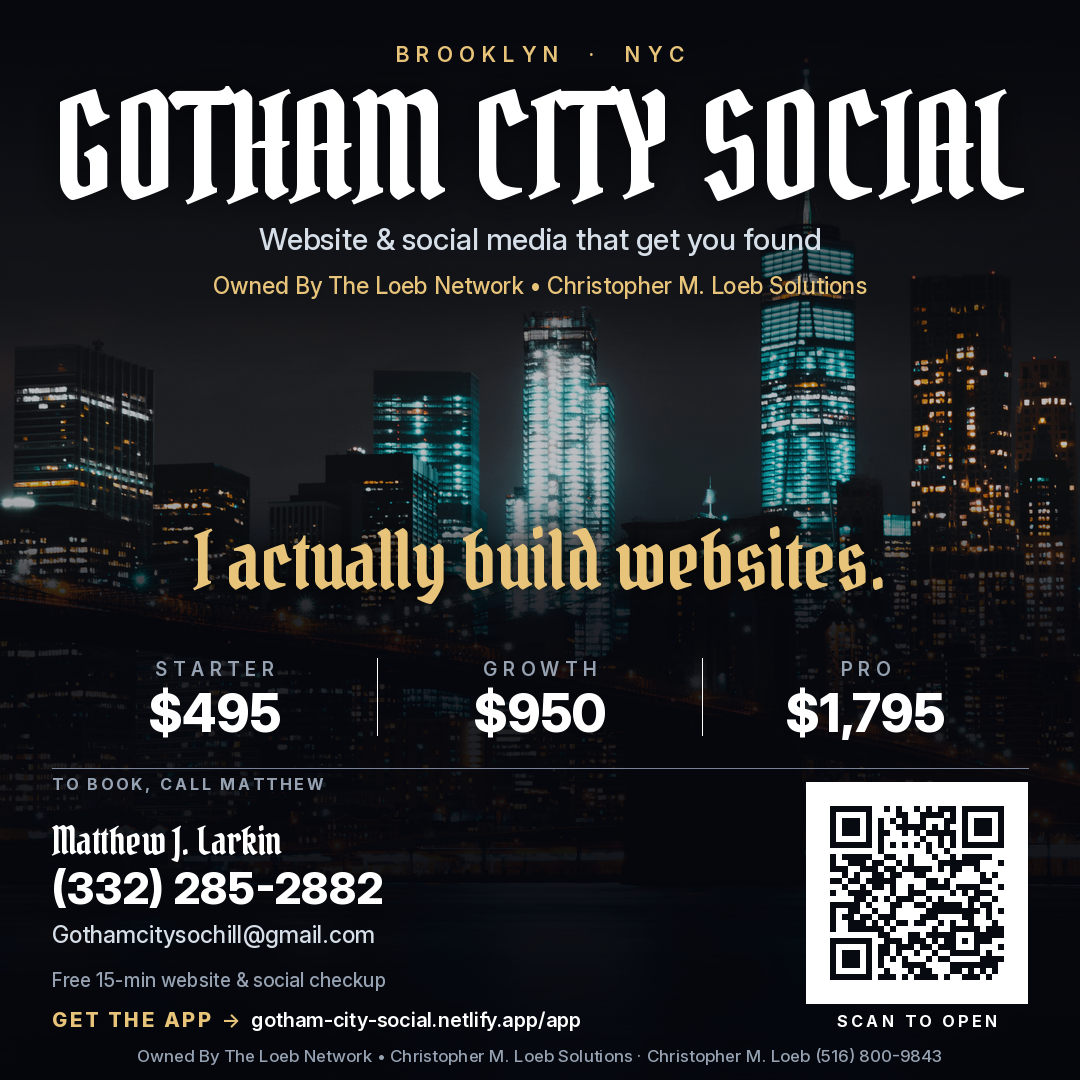
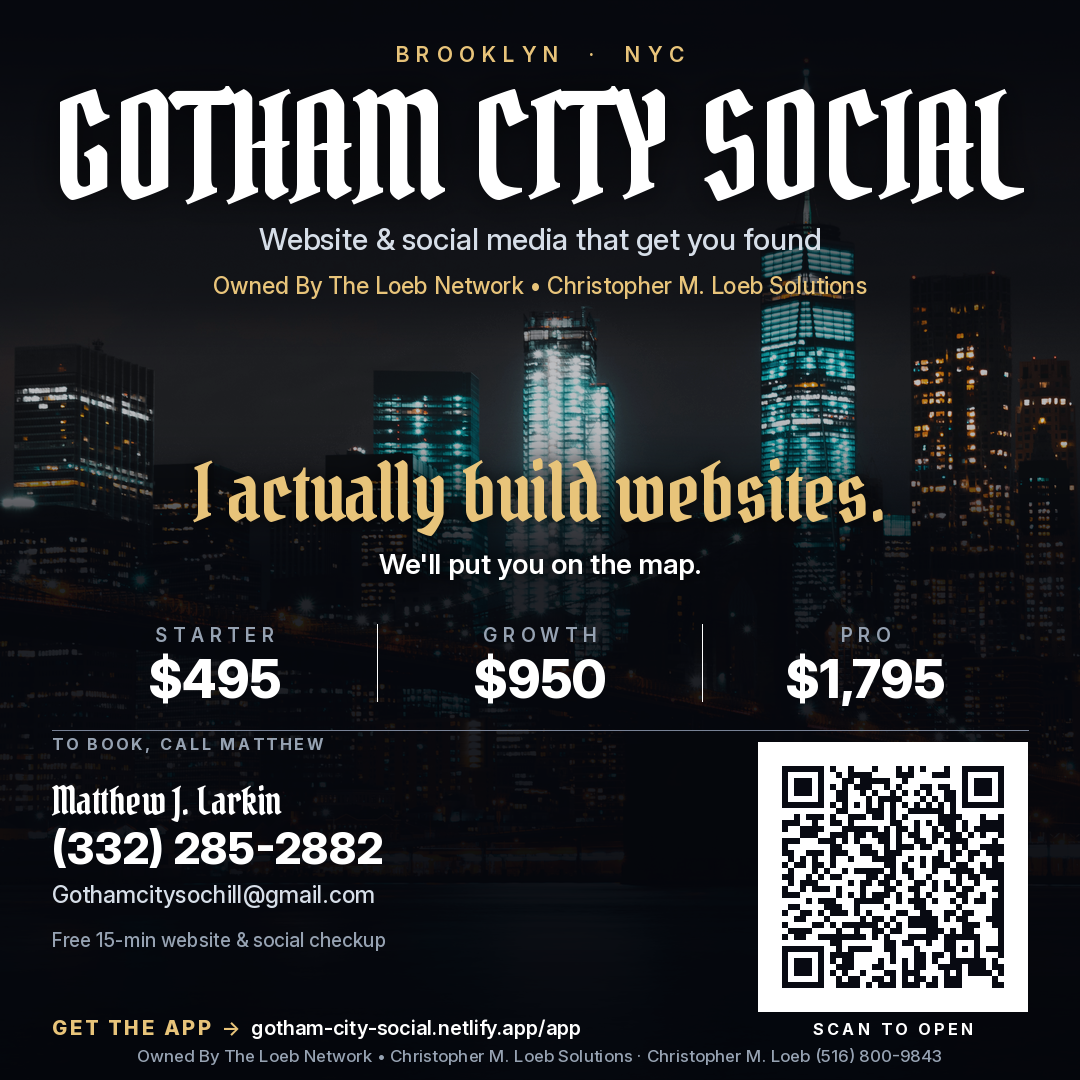
Brand storyline: 'We'll put you on the map.' tagline + Our Story section on homepage and app; Story nav link; refreshed app flyer art (H-level QR); sw cache v6

diff --git a/index.html b/index.html
@@ -9,7 +9,7 @@
       content="Gotham City Social · Owned By The Loeb Network • Christopher M. Loeb Solutions. Websites and social for Brooklyn and NYC. Christopher M. Loeb (516) 800-9843. Day-to-day booking contact: Matthew J. Larkin."
     />
     <meta name="theme-color" content="#07080c" />
-    <meta property="og:title" content="Gotham City Social" />
+    <meta property="og:title" content="Gotham City Social · We'll put you on the map." />
     <meta
       property="og:description"
       content="Owned By The Loeb Network • Christopher M. Loeb Solutions. Website & social media that get you found. Day-to-day booking contact: Matthew J. Larkin."
@@ -133,6 +133,17 @@
         .gcs-share-sheet { place-items: center; }
         .gcs-share-panel { border-radius: 12px; border-bottom: 1px solid var(--line); }
       }
+      /* Brand storyline: tagline + Our Story */
+      .map-tagline { color: var(--gold); font-weight: 600; letter-spacing: 0.02em; font-size: clamp(1.15rem, 2.2vw, 1.5rem); line-height: 1.3; margin-top: 0.6rem; }
+      .story-section { border-top: 1px solid var(--line); background: radial-gradient(60% 80% at 100% 0%, #e6c98a10, transparent 60%), var(--bg); }
+      .story-grid { display: grid; gap: clamp(1.75rem, 4vw, 3.5rem); }
+      .story-quote { margin: 0; padding: 0.2rem 0 0 1.1rem; border-left: 2px solid var(--gold); }
+      .story-quote p { font-family: var(--font-quote); color: var(--gold); font-weight: 400; font-size: clamp(1.9rem, 4.2vw, 3rem); line-height: 1.12; letter-spacing: 0.01em; overflow-wrap: break-word; }
+      .story-body p { color: var(--muted); max-width: 62ch; }
+      .story-body p + p { margin-top: 1rem; }
+      .story-body p:last-child { color: var(--ink); font-weight: 500; }
+      .story-section .section-intro { position: static; }
+      @media (min-width: 900px) { .story-grid { grid-template-columns: 0.95fr 1.05fr; align-items: start; } }
     </style>
   </head>
   <body>
@@ -150,6 +161,7 @@
         <nav class="desktop-nav" aria-label="Primary">
           <a href="#services">Services</a>
           <a href="#portfolio">Portfolio</a>
+          <a href="#story">Story</a>
           <a href="#packages">Packages</a>
           <a class="nav-pay" href="#packages">Pay</a>
           <a href="#about">About</a>
@@ -165,6 +177,7 @@
           <nav class="menu-panel" aria-label="Primary">
             <a href="#services">Services</a>
             <a href="#portfolio">Portfolio</a>
+            <a href="#story">Story</a>
             <a href="#packages">Packages</a>
             <a class="nav-pay" href="#packages">Pay</a>
             <a href="#about">About</a>
@@ -189,6 +202,7 @@
           <p class="kicker">Brooklyn · NYC</p>
           <h1 id="hero-title">Gotham City Social</h1>
           <p class="tagline">Website &amp; social media that get you found</p>
+          <p class="map-tagline">We'll put you on the map.</p>
           <p class="hero-quote">I actually build websites.</p>
           <div class="cta-row">
             <a class="btn btn-primary" href="#contact">Book a free 15-min checkup</a>
@@ -379,10 +393,31 @@
         </div>
       </section>
 
+      <section class="section story-section" id="story" aria-labelledby="story-title">
+        <div class="wrap">
+          <div class="section-intro">
+            <p class="index">03 — Our Story</p>
+            <h2 id="story-title">Our Story</h2>
+            <p class="map-tagline">We'll put you on the map.</p>
+          </div>
+          <div class="story-grid" style="margin-top:2rem">
+            <blockquote class="story-quote">
+              <p>Every legend in this city started as a storefront nobody knew. Let's make you famous.</p>
+            </blockquote>
+            <div class="story-body">
+              <p>Every block in Brooklyn has a spot locals swear by, like the barber with the line out the door, the pizza place that's been there forever, or the artist nobody's heard of yet. Great work deserves to be seen, and too many of those spots never show up when people search.</p>
+              <p>That's where Gotham City Social comes in. We build your website, set up your social pages, and get you on Google, so when someone searches for the best spot in the neighborhood, they find you.</p>
+              <p>No big agency prices, and no confusing tech talk. We're local people who actually build websites, and we'll have you live in days, not months.</p>
+              <p>Your city's waiting. Let's make you famous.</p>
+            </div>
+          </div>
+        </div>
+      </section>
+
       <section class="section band" id="packages" aria-labelledby="packages-title">
         <div class="wrap">
           <div class="section-intro">
-            <p class="index">03 — Packages</p>
+            <p class="index">04 — Packages</p>
             <h2 id="packages-title">Project packages</h2>
             <p class="lede">
               Three project sizes, one-time fees, not monthly. Starter is the website. Growth adds social profiles and local search. Pro is the full launch, with a handoff you can run. Pay online to start now, or book a free call first if you want to talk through scope.
@@ -462,7 +497,7 @@
       <section class="section" id="about" aria-labelledby="about-title">
         <div class="wrap about-grid">
           <div class="about-copy">
-            <p class="index">04 — About</p>
+            <p class="index">05 — About</p>
             <h2 id="about-title">For Brooklyn and New York</h2>
             <p>
               Gotham City Social builds websites and sets up social profiles for local businesses. The pages, the profiles, and a phone number that matches.
@@ -585,6 +620,7 @@
           <nav class="footer-links" aria-label="Footer">
             <a href="#services">Services</a>
             <a href="#portfolio">Portfolio</a>
+            <a href="#story">Our Story</a>
             <a href="#packages">Packages &amp; Pay</a>
             <a href="#about">About</a>
             <a href="#contact">Contact</a>

diff --git a/app/index.html b/app/index.html
@@ -59,6 +59,18 @@
         .app-art { order: -1; width: min(70%, 300px); }
       }
       @media (max-width: 520px) { .downloads { grid-template-columns: 1fr; } }
+      /* Brand storyline: tagline + Our Story */
+      .app-hero .map-tagline, .map-tagline { color: var(--gold); font-weight: 600; letter-spacing: 0.02em; font-size: clamp(1.15rem, 2.2vw, 1.5rem); line-height: 1.3; margin-top: 0.6rem; }
+      .story-section { border-top: 1px solid var(--line); background: radial-gradient(60% 80% at 100% 0%, #e6c98a10, transparent 60%), var(--bg); }
+      .story-grid { display: grid; gap: clamp(1.75rem, 4vw, 3.5rem); }
+      .story-quote { margin: 0; padding: 0.2rem 0 0 1.1rem; border-left: 2px solid var(--gold); }
+      .story-quote p { font-family: var(--font-quote); color: var(--gold); font-weight: 400; font-size: clamp(1.9rem, 4.2vw, 3rem); line-height: 1.12; letter-spacing: 0.01em; overflow-wrap: break-word; }
+      .story-body p { color: var(--muted); max-width: 62ch; }
+      .story-body p + p { margin-top: 1rem; }
+      .story-body p:last-child { color: var(--ink); font-weight: 500; }
+      .story-section .section-intro { position: static; }
+      @media (min-width: 900px) { .story-grid { grid-template-columns: 0.95fr 1.05fr; align-items: start; } }
+
 
       /* Share button + sheet */
       .btn-share { gap: 0.45rem; }
@@ -151,6 +163,7 @@
             <p class="kicker">The Gotham City Social app · Brooklyn · NYC</p>
             <h1 id="app-title">Get the app</h1>
             <p class="tagline">Gotham City Social — website &amp; social that get you found.</p>
+            <p class="map-tagline">We'll put you on the map.</p>
             <p class="pitch">
               Put Gotham City Social on your home screen. One tap opens the packages, sample sites, and a direct line
               to book your free 15-minute website &amp; social checkup. It installs straight from this site — no store
@@ -268,6 +281,27 @@
         </div>
       </section>
 
+      <section class="section story-section" id="story" aria-labelledby="story-title">
+        <div class="wrap">
+          <div class="section-intro">
+            <p class="index">Our Story</p>
+            <h2 id="story-title">Our Story</h2>
+            <p class="map-tagline">We'll put you on the map.</p>
+          </div>
+          <div class="story-grid" style="margin-top:2rem">
+            <blockquote class="story-quote">
+              <p>Every legend in this city started as a storefront nobody knew. Let's make you famous.</p>
+            </blockquote>
+            <div class="story-body">
+              <p>Every block in Brooklyn has a spot locals swear by, like the barber with the line out the door, the pizza place that's been there forever, or the artist nobody's heard of yet. Great work deserves to be seen, and too many of those spots never show up when people search.</p>
+              <p>That's where Gotham City Social comes in. We build your website, set up your social pages, and get you on Google, so when someone searches for the best spot in the neighborhood, they find you.</p>
+              <p>No big agency prices, and no confusing tech talk. We're local people who actually build websites, and we'll have you live in days, not months.</p>
+              <p>Your city's waiting. Let's make you famous.</p>
+            </div>
+          </div>
+        </div>
+      </section>
+
       <section class="section" id="install" aria-labelledby="install-title">
         <div class="wrap">
           <div class="section-intro">
@@ -334,10 +368,10 @@
                 <a href="../assets/app/GothamCitySocial_App_1024.png" download>Download PNG</a></figcaption>
             </figure>
             <figure>
-              <img src="../assets/app/app-poster-720.jpg?v=3" width="720" height="720" loading="lazy"
-                alt="Gotham City Social flyer: I actually build websites. Starter $495, Growth $950, Pro $1,795. To book, call Matthew J. Larkin at (332) 285-2882. QR code to the website, and GET THE APP → gotham-city-social.netlify.app/app. Owned By The Loeb Network • Christopher M. Loeb Solutions." />
+              <img src="../assets/app/app-poster-720.jpg?v=4" width="720" height="720" loading="lazy"
+                alt="Gotham City Social flyer: I actually build websites. We'll put you on the map. Starter $495, Growth $950, Pro $1,795. To book, call Matthew J. Larkin at (332) 285-2882. QR code to the website, and GET THE APP → gotham-city-social.netlify.app/app. Owned By The Loeb Network • Christopher M. Loeb Solutions." />
               <figcaption>App flyer · 1080×1080 ·
-                <a href="../assets/app/GothamCitySocial_App_1080.png" download>Download PNG</a></figcaption>
+                <a href="../assets/app/GothamCitySocial_App_1080.png?v=4" download>Download PNG</a></figcaption>
             </figure>
           </div>
         </div>

diff --git a/sw.js b/sw.js
@@ -1,7 +1,7 @@
 /* Gotham City Social web app — network-first service worker.
    Always tries the live site first (so new deploys show up immediately);
    falls back to the last cached copy when offline. */
-const CACHE = "gcs-app-v5";
+const CACHE = "gcs-app-v6";
 const CORE = ["./", "./index.html", "./app/", "./manifest.webmanifest", "./favicon.svg",
   "./assets/app/icon-192.png", "./assets/app/icon-512.png", "./assets/app/app-art-720.jpg",
   "./assets/pay.css?v=1", "./assets/pay.js?v=1", "./assets/share.js"];
